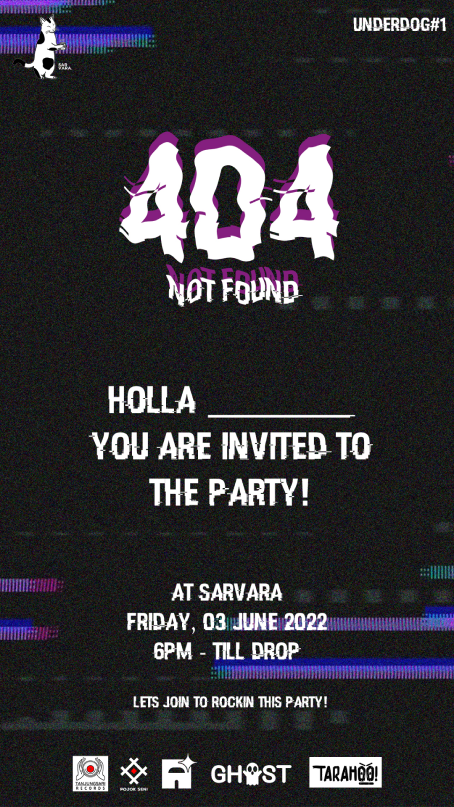
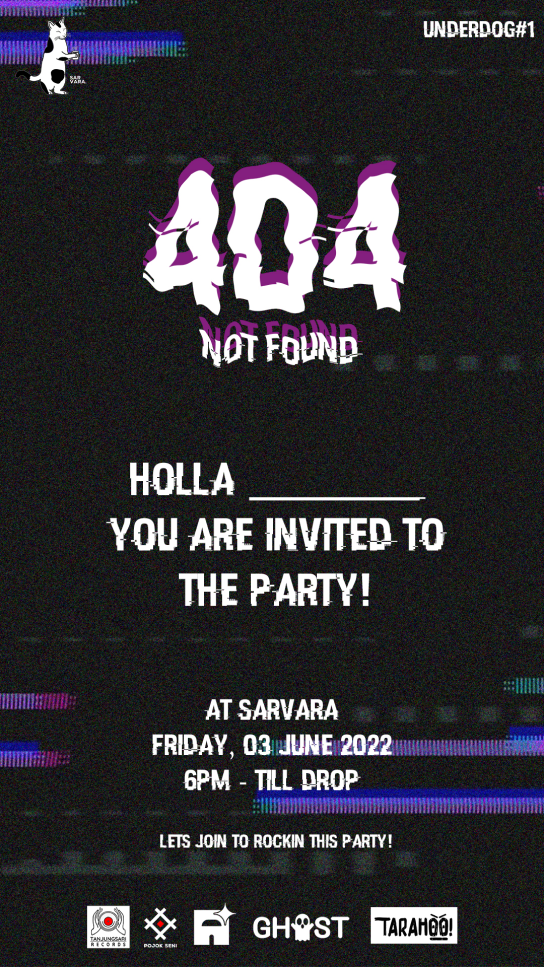
modify lil bit

diff --git a/index.html b/index.html
@@ -5,22 +5,47 @@
     <meta http-equiv="X-UA-Compatible" content="IE=edge" />
     <meta name="viewport" content="width=device-width, initial-scale=1.0" />
     <link rel="stylesheet" href="style.css" />
+    <link
+      rel="stylesheet"
+      href="https://use.fontawesome.com/releases/v5.15.4/css/all.css"
+      integrity="sha384-DyZ88mC6Up2uqS4h/KRgHuoeGwBcD4Ng9SiP4dIRy0EXTlnuz47vAwmeGwVChigm"
+      crossorigin="anonymous"
+    />
+    <script src="typeWriter.js"></script>
     <title>404Not-Found</title>
   </head>
-  <body>
-    <canvas class="hide" id="idCanvas" width="1080" height="1920"></canvas>
+  <body onload="typeWriter()">
+    <canvas class="hide" id="idCanvas" width="544" height="967"></canvas>
     <img src="logo 1.png" alt="" class="center" />
-    <p class="invitation">Write your name here</p>
+    <p class="invitation" id="title"></p>
 
     <input id="inputText" type="text" class="input" />
     <button
       onclick="getText()"
       type="submit"
-      class=""
+      class="button1"
       style="font-family: monospace"
     >
       Submit
     </button>
+    <footer class="site-footer">
+      <h3 class="invitation">
+        Copyright © 2022
+        <a
+          href="https://www.instagram.com/gggiiilang/"
+          target="_blank"
+          class="link"
+          >Gilang</a
+        >
+        &
+        <a
+          href="https://www.instagram.com/rakhmanfandi/"
+          target="_blank"
+          class="link"
+          >Randi</a
+        >
+      </h3>
+    </footer>
 
     <script src="script.js"></script>
   </body>

diff --git a/style.css b/style.css
@@ -15,26 +15,54 @@ body {
 
 .invitation {
   color: white;
-  margin-top: 100px;
+  margin-top: 150px;
   text-align: center;
+  font-weight: bold;
+  font-size: 18px;
   font-family: monospace;
+  animation: typing 3.5s steps(40, end), blink-caret 0.75s step-end infinite;
 }
 
 .input {
   display: block;
   margin-right: auto;
   margin-left: auto;
-  padding: 16px 16px;
+  padding: 16px 32px;
+  border-radius: 8px;
 }
 
-.invite {
-  margin-top: 50px;
-  color: black;
-  display: flex;
-  justify-content: center;
-  align-items: center;
+.button1 {
+  display: block;
+  color: white;
+  border: none;
+  text-align: center;
+  text-decoration: none;
+  font-size: medium;
+  background-color: #841f7f;
+  padding: 12px 18px;
+  margin-top: 40px;
+  margin-left: auto;
+  margin-right: auto;
 }
 
 .hide {
   display: none;
+}
+
+.fa-instagram {
+  background: #125688;
+  color: white;
+}
+
+.site-footer {
+  margin-top: 200px;
+}
+
+.link {
+  text-decoration: none;
+  color: #841f7f;
+}
+
+#footer-content {
+  background: blue;
 }

diff --git a/script.js b/script.js
@@ -6,9 +6,9 @@ function draw(text) {
 
   imageObj.onload = function () {
     context.drawImage(imageObj, 0, 0);
-    context.font = "60px Calibri";
+    context.font = "40px Monospace";
     context.fillStyle = "white";
-    context.fillText(text, 550, 960); // left, top
+    context.fillText(text, 250, 490); // left, top
 
     var canvas = document.getElementById("idCanvas");
     var dataURL = canvas.toDataURL();
@@ -26,12 +26,12 @@ function draw(text) {
     }
   };
   imageObj.setAttribute("crossOrigin", "anonymous");
-  imageObj.src = "INVITING PARTY.png";
+  imageObj.src = "invitation-card.png";
 }
 
 function getText(e) {
   var text = document.getElementById("inputText").value;
   draw(text);
   var canvas = document.getElementById("idCanvas");
-  canvas.classList.remove("hide");
+  //   canvas.classList.remove("hide");
 }

diff --git a/typeWriter.js b/typeWriter.js
@@ -1,0 +1,11 @@
+var i = 0;
+var txt = "Write your name here";
+var speed = 150;
+
+function typeWriter() {
+  if (i < txt.length) {
+    document.getElementById("title").innerHTML += txt.charAt(i);
+    i++;
+    setTimeout(typeWriter, speed);
+  }
+}
